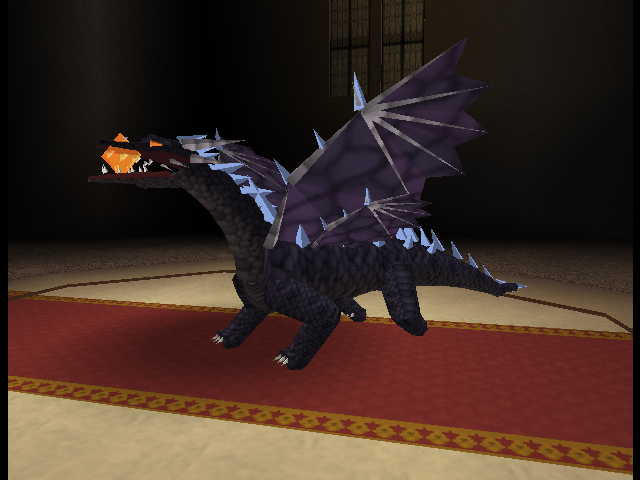
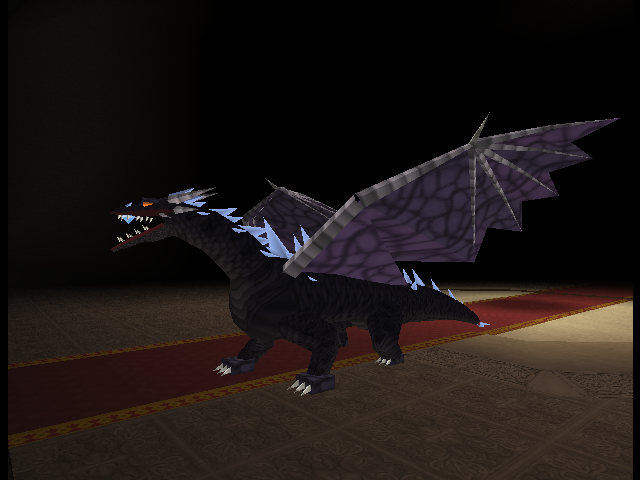
README: Shadowborne's portrait from the new model (wings spread, the beam's gathering), its line updated

diff --git a/README.md b/README.md
@@ -73,7 +73,7 @@ Guardian Unbound (the Guardian's second form), plus three **Bonus** fights on th
 | The Guardian, risen in gold, his sword floating over him: a barrage from the air. | A crimson knight with your own moves: combos, Halfmoon, Moon Blade, rolls and counters, a leaping plunge. |
 | **The Shackled Sun (Bonus)** | **Shadowborne (Bonus)** |
 | <img src="docs/media/boss_shackled_sun.png" width="400"> | <img src="docs/media/boss_shadowborn.png" width="400"> |
-| A chained sun with an uncanny face: its chains lash and sweep, sunbrand crosses fly, and once unshackled it eclipses. | A crystal dragon: claws, tail and bite, fire swept over the floor, strafes from the air, and the dark beam in its second half. |
+| A chained sun with an uncanny face: its chains lash and sweep, sunbrand crosses fly, and once unshackled it eclipses. | A crystal dragon on great wings: claws, stomps and a raking charge, a tail that punishes standing behind it, fire on the ground and from the air, and the dark beam in its second half. |
 
 The ending now plays live in the engine.
 
